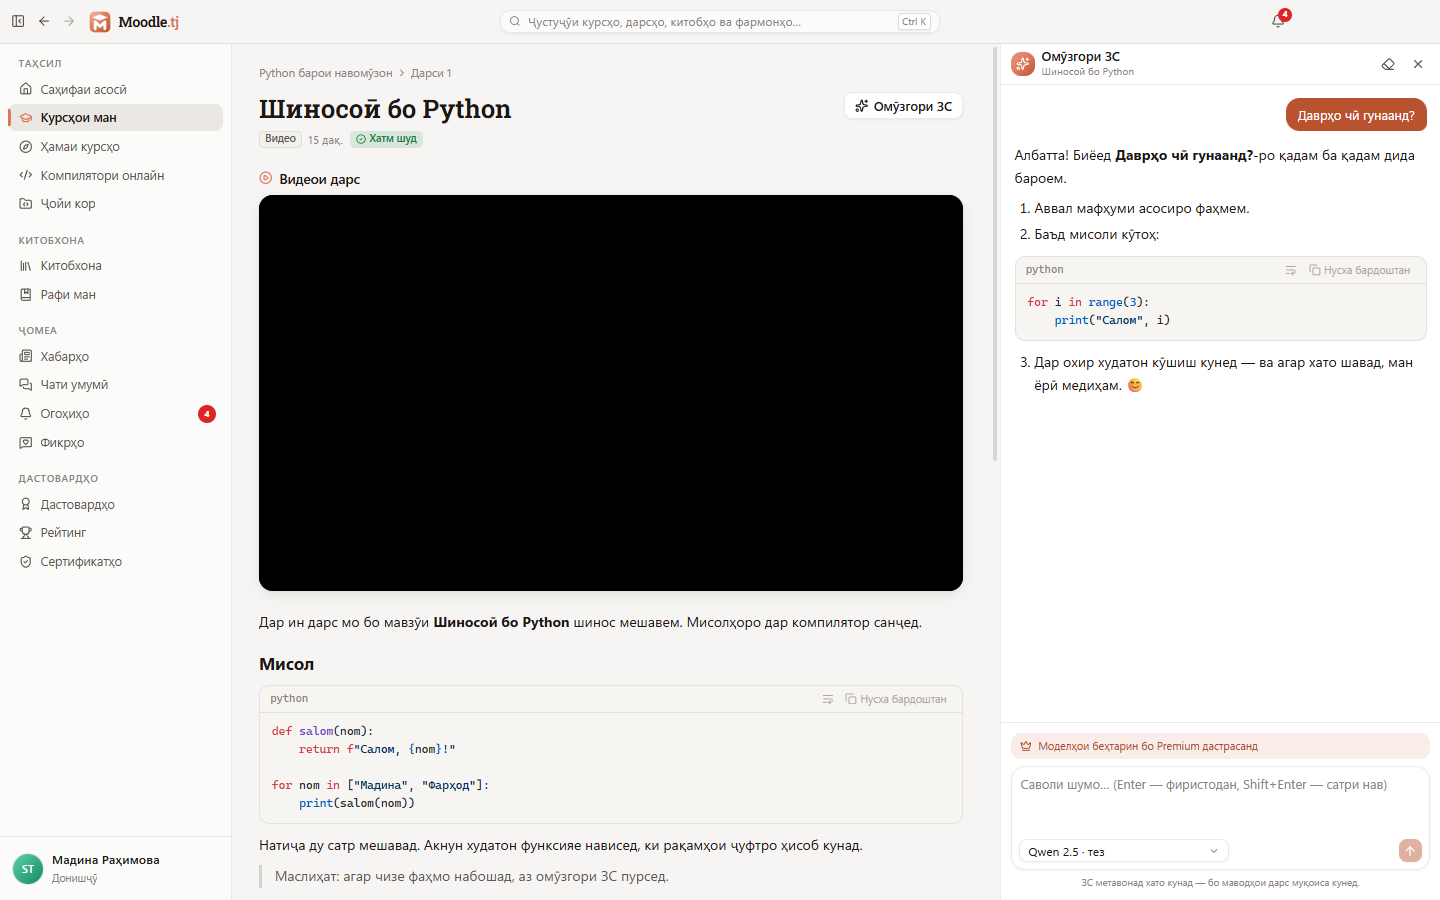
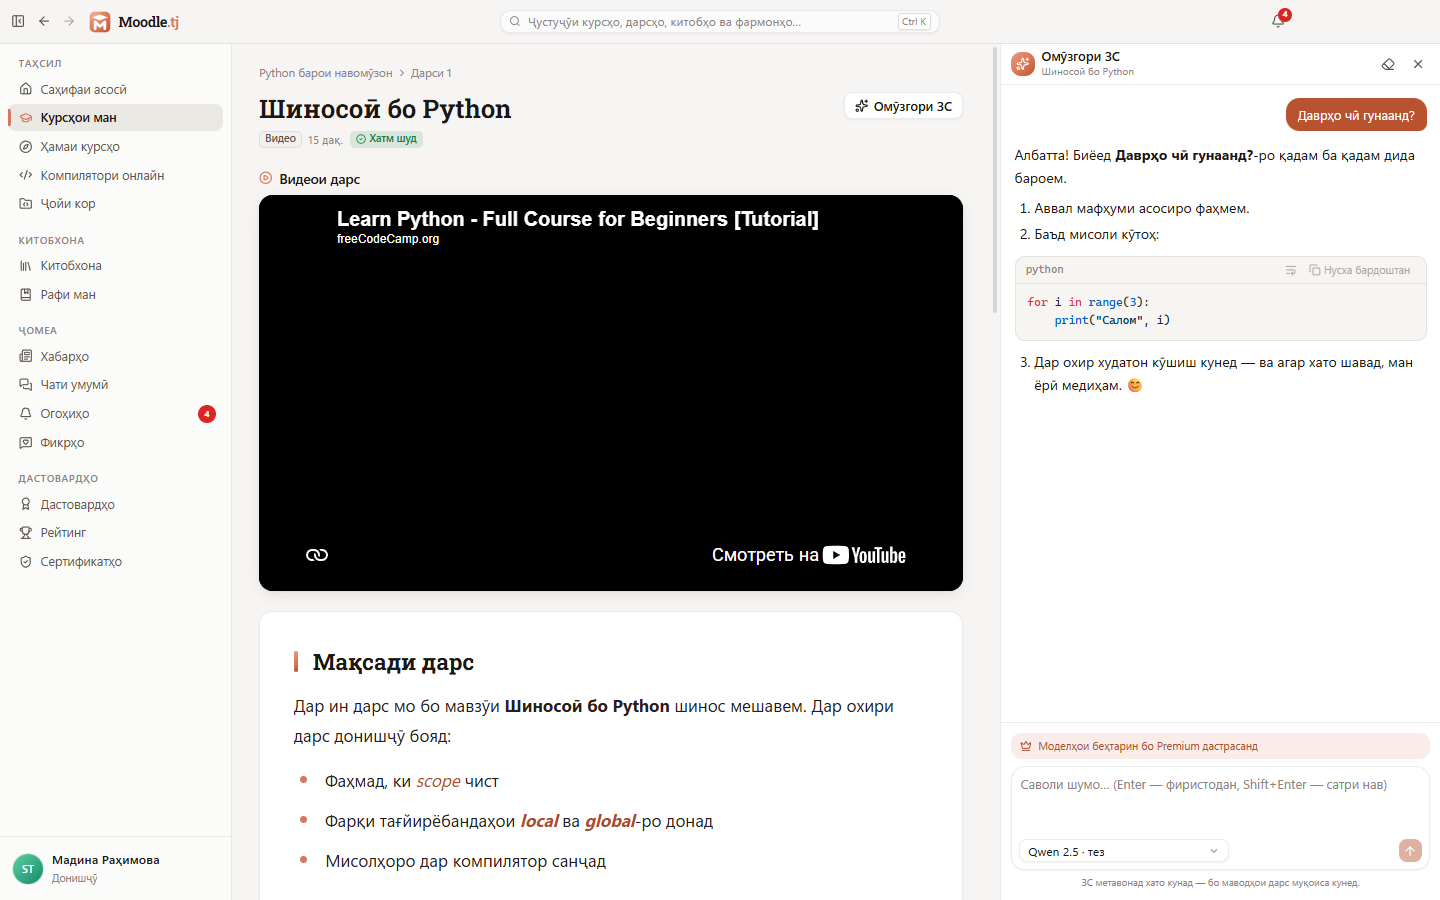
1.2.3: new lesson screenshots, macOS first-start command (xattr) in README, CHANGELOG; versions table lists current releases

Changed region(s): [[0.1875, 0.6844, 0.6562, 0.9956], [0.2188, 0.2178, 0.5625, 0.28], [0.5, 0.5911, 0.625, 0.6222]]

diff --git a/README.ru.md b/README.ru.md
@@ -24,6 +24,15 @@
   <a href="README.md">English</a> &nbsp;·&nbsp; <a href="CHANGELOG.md">Что нового</a>
 </p>
 
+> [!IMPORTANT]
+> **macOS: перед первым запуском выполните одну команду.** Перетащив программу в «Программы», откройте **Терминал** и выполните:
+>
+> ```bash
+> xattr -dr com.apple.quarantine "/Applications/Moodle.tj Desktop.app"
+> ```
+>
+> Без неё macOS не откроет программу («не удаётся открыть» или «повреждена»), потому что она не подписана сертификатом Apple. Достаточно одного раза на установку — [подробнее](#macos-apple-silicon-m1m5).
+
 <p align="center">
   <img src="docs/screenshots/06-home-light.png" width="49%" alt="Главная, светлая тема" />
   <img src="docs/screenshots/07-home-dark.png" width="49%" alt="Главная, тёмная тема" />
@@ -51,6 +60,7 @@
 
 ## Что нового в 1.2
 
+- **Новый вид урока**: текст в карточке с цветными заголовками и списками, код в тёмных карточках с номерами строк и «Копировать», справа «В этом уроке» и «Содержание курса», настройка размера текста урока.
 - **Кабинет преподавателя**: уроки на всех языках курса, «Новый урок», «Сделать копию», порядок перетаскиванием, язык урока, результаты теста каждого студента, аналитика курса с кнопкой «Напомнить».
 - **Аналитика сайта в программе** для администратора: обзор с динамикой, зона риска, кампании с отправкой и исключениями, журнал доставок, карточка студента, выгрузка CSV.
 - **Версия для macOS** с обновлением внутри программы; Windows и macOS обновляются независимо, каждая по своим сборкам.
@@ -64,7 +74,7 @@
 **Обучение**
 - Главная: приветствие, серия и прогресс, «Продолжить обучение», план на сегодня, ближайшие сроки, популярные курсы.
 - «Все курсы» с большим поиском, панелью фильтров (направление, уровень, язык, цена) и сортировкой; запись на курс и заявка с документом.
-- Уроки: видео продолжается с места остановки, код с подсветкой, PDF во встроенном просмотре, обсуждение с ответами и лайками.
+- Уроки в карточке, как на сайте: разделы и содержание курса справа, карточки кода с номерами строк и «Копировать», настраиваемый размер текста; видео продолжается с места остановки, PDF во встроенном просмотре, обсуждение с ответами и лайками.
 - **ИИ-репетитор** в боковой панели: ответ печатается вживую, Markdown и код, выбор модели, история.
 - Тесты с таймером, вопросы с одним/несколькими/текстовым ответом, защита от случайного выхода, подробный разбор.
 - Задания с перетаскиванием файла, оценкой и отзывом преподавателя.
@@ -95,6 +105,10 @@
 
 **Обучение**
 
+<p align="center">
+  <img src="docs/screenshots/27-lesson-light.png" width="49%" alt="Урок с карточками кода и содержанием, светлая тема" />
+  <img src="docs/screenshots/28-lesson-dark.png" width="49%" alt="Урок, тёмная тема" />
+</p>
 <p align="center">
   <img src="docs/screenshots/18-lesson-tutor-light.png" width="49%" alt="Урок с ИИ-репетитором" />
   <img src="docs/screenshots/flow-coding-check.png" width="49%" alt="Задача по программированию" />
@@ -143,7 +157,19 @@
 ### macOS (Apple Silicon: M1–M5)
 
 1. Скачайте `Moodle.tj-Desktop-<версия>-arm64.dmg` из [Releases](https://github.com/imomzoda-dev/MoodleTjDesktop/releases/latest), откройте его и перетащите **Moodle.tj Desktop** в **Программы**.
-2. Программа не подписана сертификатом Apple, поэтому первый запуск macOS один раз заблокирует: откройте программу, затем **Системные настройки → Конфиденциальность и безопасность → «Всё равно открыть»** (или правый клик по программе → **Открыть**).
+2. **Перед первым запуском** откройте **Терминал** (*Spotlight* `⌘ Пробел` → наберите «Терминал» → `Return`, или «Программы → Утилиты → Терминал») и выполните:
+
+   ```bash
+   xattr -dr com.apple.quarantine "/Applications/Moodle.tj Desktop.app"
+   ```
+
+   Команда ничего не спрашивает и ничего не выводит — значит, всё получилось. Она снимает отметку «загружено из интернета» (карантин), которую macOS ставит на программы без сертификата Apple; с этой отметкой macOS пишет, что программу «не удаётся открыть» или что она «повреждена».
+3. Откройте **Moodle.tj Desktop** из «Программ» или Launchpad.
+
+> [!NOTE]
+> - Команда нужна **один раз на установку** из DMG (и снова, если вы ставите новый DMG вручную). Обновления внутри программы ничего не требуют: программа снимает отметку сама.
+> - Если программа лежит в другой папке, укажите её путь вместо `/Applications/…`.
+> - Без Терминала: попробуйте открыть программу один раз, затем **Системные настройки → Конфиденциальность и безопасность → «Всё равно открыть»**.
 
 **Требования:** macOS 12 и новее на Apple Silicon, аккаунт Moodle.tj.
 
@@ -165,12 +191,10 @@
 
 | Версия | Дата | Системы | Загрузки |
 |---|---|---|---|
+| [1.2.3](https://github.com/imomzoda-dev/MoodleTjDesktop/releases/tag/v1.2.3) | 02.11.2026 | Windows, macOS | ![загрузки](https://img.shields.io/github/downloads/imomzoda-dev/MoodleTjDesktop/v1.2.3/total) |
 | [1.2.2](https://github.com/imomzoda-dev/MoodleTjDesktop/releases/tag/v1.2.2) | 02.11.2026 | Windows, macOS | ![загрузки](https://img.shields.io/github/downloads/imomzoda-dev/MoodleTjDesktop/v1.2.2/total) |
-| [1.2.1](https://github.com/imomzoda-dev/MoodleTjDesktop/releases/tag/v1.2.1) | 02.11.2026 | Windows, macOS | ![загрузки](https://img.shields.io/github/downloads/imomzoda-dev/MoodleTjDesktop/v1.2.1/total) |
-| [1.2.0](https://github.com/imomzoda-dev/MoodleTjDesktop/releases/tag/v1.2.0) | 02.11.2026 | Windows, macOS | ![загрузки](https://img.shields.io/github/downloads/imomzoda-dev/MoodleTjDesktop/v1.2.0/total) |
-| [1.1.1](https://github.com/imomzoda-dev/MoodleTjDesktop/releases/tag/v1.1.1) | 01.11.2026 | Windows | ![загрузки](https://img.shields.io/github/downloads/imomzoda-dev/MoodleTjDesktop/v1.1.1/total) |
-| [1.1.0](https://github.com/imomzoda-dev/MoodleTjDesktop/releases/tag/v1.1.0) | 31.10.2026 | Windows | ![загрузки](https://img.shields.io/github/downloads/imomzoda-dev/MoodleTjDesktop/v1.1.0/total) |
-| [1.0.0](https://github.com/imomzoda-dev/MoodleTjDesktop/releases/tag/v1.0.0) | 30.10.2026 | Windows | ![загрузки](https://img.shields.io/github/downloads/imomzoda-dev/MoodleTjDesktop/v1.0.0/total) |
+
+Более ранние версии — в [CHANGELOG](CHANGELOG.md).
 
 ## Лицензия
 

diff --git a/README.md b/README.md
@@ -24,6 +24,15 @@
   <a href="README.ru.md">Русский</a> &nbsp;·&nbsp; <a href="CHANGELOG.md">What's new</a>
 </p>
 
+> [!IMPORTANT]
+> **macOS: run one command before the first start.** After dragging the app into *Applications*, open **Terminal** and run:
+>
+> ```bash
+> xattr -dr com.apple.quarantine "/Applications/Moodle.tj Desktop.app"
+> ```
+>
+> Without it macOS refuses to open the app (*“cannot be opened”* or *“is damaged”*), because it is not signed with an Apple Developer ID. Once per installation is enough — [details](#macos-apple-silicon-m1m5).
+
 <p align="center">
   <img src="docs/screenshots/06-home-light.png" width="49%" alt="Home, light theme" />
   <img src="docs/screenshots/07-home-dark.png" width="49%" alt="Home, dark theme" />
@@ -51,6 +60,7 @@ The same app, the same account and the same features on Windows and on a Mac —
 
 ## What's new in 1.2
 
+- **A new lesson page**: the text in a card with coloured titles and lists, code in dark code cards with line numbers and *Copy*, *In this lesson* and *Course contents* on the right, and a lesson text size setting.
 - **Teacher cabinet**: lessons in every course language, *New lesson*, *Duplicate*, drag-and-drop order, the lesson language, quiz results of every student, course analytics with *Remind*.
 - **Site analytics in the app** for administrators: overview with trends, students at risk, campaigns with sending and exclusions, the delivery log, student cards, CSV export.
 - **macOS version** with in-app updates; Windows and macOS update independently, each from its own builds.
@@ -64,7 +74,7 @@ Full list — [CHANGELOG](CHANGELOG.md).
 **Learning**
 - Home with a personal greeting, streak and progress, *Continue learning*, today's plan, upcoming deadlines and popular courses.
 - *All courses* with a large search, a filter panel (subject, level, language, price) and sorting; enrolment and enrolment requests with a document.
-- Lessons: video that resumes where you stopped, highlighted code, PDF materials in a built-in viewer, discussion with replies and likes.
+- Lessons in a card, as on the site: titles and contents on the right, the course outline, code cards with line numbers and *Copy*, an adjustable text size; video that resumes where you stopped, PDF materials in a built-in viewer, discussion with replies and likes.
 - **AI tutor** in a side panel: live streamed answers, Markdown and highlighted code, model choice, history.
 - Quizzes with a timer, single/multiple/text questions, protection against leaving by accident, a detailed review.
 - Assignments with drag-and-drop upload, grade and teacher feedback.
@@ -95,6 +105,10 @@ Full list — [CHANGELOG](CHANGELOG.md).
 
 **Learning**
 
+<p align="center">
+  <img src="docs/screenshots/27-lesson-light.png" width="49%" alt="Lesson with code cards and contents, light" />
+  <img src="docs/screenshots/28-lesson-dark.png" width="49%" alt="Lesson, dark theme" />
+</p>
 <p align="center">
   <img src="docs/screenshots/18-lesson-tutor-light.png" width="49%" alt="Lesson with the AI tutor" />
   <img src="docs/screenshots/flow-coding-check.png" width="49%" alt="Coding task" />
@@ -143,7 +157,19 @@ Full list — [CHANGELOG](CHANGELOG.md).
 ### macOS (Apple Silicon: M1–M5)
 
 1. Download `Moodle.tj-Desktop-<version>-arm64.dmg` from [Releases](https://github.com/imomzoda-dev/MoodleTjDesktop/releases/latest), open it and drag **Moodle.tj Desktop** into **Applications**.
-2. The app is not signed with an Apple Developer ID, so the first start is blocked once: open it, then go to **System Settings → Privacy & Security** and click **Open Anyway** (or right-click the app → **Open**).
+2. **Before the first start**, open **Terminal** (*Spotlight* `⌘ Space` → type *Terminal* → `Return`, or *Applications → Utilities → Terminal*) and run:
+
+   ```bash
+   xattr -dr com.apple.quarantine "/Applications/Moodle.tj Desktop.app"
+   ```
+
+   The command asks for nothing and prints nothing — that means it worked. It removes the *downloaded from the internet* (quarantine) mark that macOS puts on every app without an Apple Developer ID; with that mark macOS says the app *“cannot be opened”* or *“is damaged and can't be opened”*.
+3. Open **Moodle.tj Desktop** from *Applications* or *Launchpad*.
+
+> [!NOTE]
+> - The command is needed **once per installation** from the DMG (and again if you install a new DMG by hand). Updates made inside the app need nothing: the app removes the mark itself.
+> - If the app is in another folder, use its path instead of `/Applications/…`.
+> - Without Terminal: try to open the app once, then go to **System Settings → Privacy & Security** and click **Open Anyway**.
 
 **Requirements:** macOS 12 or later on Apple Silicon, a Moodle.tj account.
 
@@ -165,12 +191,10 @@ The app checks GitHub Releases at start and every 4 hours (automatic checks can 
 
 | Version | Date | Systems | Downloads |
 |---|---|---|---|
+| [1.2.3](https://github.com/imomzoda-dev/MoodleTjDesktop/releases/tag/v1.2.3) | 02.11.2026 | Windows, macOS | ![downloads](https://img.shields.io/github/downloads/imomzoda-dev/MoodleTjDesktop/v1.2.3/total) |
 | [1.2.2](https://github.com/imomzoda-dev/MoodleTjDesktop/releases/tag/v1.2.2) | 02.11.2026 | Windows, macOS | ![downloads](https://img.shields.io/github/downloads/imomzoda-dev/MoodleTjDesktop/v1.2.2/total) |
-| [1.2.1](https://github.com/imomzoda-dev/MoodleTjDesktop/releases/tag/v1.2.1) | 02.11.2026 | Windows, macOS | ![downloads](https://img.shields.io/github/downloads/imomzoda-dev/MoodleTjDesktop/v1.2.1/total) |
-| [1.2.0](https://github.com/imomzoda-dev/MoodleTjDesktop/releases/tag/v1.2.0) | 02.11.2026 | Windows, macOS | ![downloads](https://img.shields.io/github/downloads/imomzoda-dev/MoodleTjDesktop/v1.2.0/total) |
-| [1.1.1](https://github.com/imomzoda-dev/MoodleTjDesktop/releases/tag/v1.1.1) | 01.11.2026 | Windows | ![downloads](https://img.shields.io/github/downloads/imomzoda-dev/MoodleTjDesktop/v1.1.1/total) |
-| [1.1.0](https://github.com/imomzoda-dev/MoodleTjDesktop/releases/tag/v1.1.0) | 31.10.2026 | Windows | ![downloads](https://img.shields.io/github/downloads/imomzoda-dev/MoodleTjDesktop/v1.1.0/total) |
-| [1.0.0](https://github.com/imomzoda-dev/MoodleTjDesktop/releases/tag/v1.0.0) | 30.10.2026 | Windows | ![downloads](https://img.shields.io/github/downloads/imomzoda-dev/MoodleTjDesktop/v1.0.0/total) |
+
+Earlier versions — see the [CHANGELOG](CHANGELOG.md).
 
 ## License
 

diff --git a/CHANGELOG.md b/CHANGELOG.md
@@ -1,5 +1,17 @@
 # Что нового
 
+## 1.2.3 — новый вид урока
+
+### Урок
+- **Текст урока в отдельной карточке**, как на сайте: заголовки с фирменной полосой, цветные маркеры списков и номера, выделенные цитаты, таблицы и картинки с рамкой — красиво в светлой и тёмной теме.
+- **Код — в карточках кода**: тёмная карточка в обеих темах, номера строк, подсветка синтаксиса, название языка, перенос строк и кнопка **«Копировать»** (копирует чистый код без номеров). Раньше код с сайта (в обёртке `code-block`) показывался обычным текстом — исправлено; язык угадывается, если автор его не указал.
+- **Справа — «В этом уроке»**: все разделы урока, текущий подсвечивается при прокрутке, щелчок переносит к разделу. Ниже — **«Содержание курса»**: все уроки с отметками «пройден» и «закрыт», текущий выделен, прогресс курса.
+- **Размер текста урока** в «Настройки → Оформление»: от 14 до 24 px с предпросмотром; меняется только текст уроков, интерфейс остаётся прежним.
+
+### Обновления
+- Карточка обновления в боковой панели — компактнее: версия, «Обновить» и значок «Что нового».
+- После проверки без новой версии на 3 секунды появляется карточка «У вас последняя версия» и плавно исчезает.
+
 ## 1.2.2 — обновление видно ещё до входа
 
 - **Карточка обновления на экранах входа, регистрации и восстановления пароля** — компактно в правом нижнем углу: «Что нового» и «Обновить», ход загрузки, проверка файла и «Перезапустить и обновить». Если войти не получается из-за старой версии, обновиться можно прямо отсюда.
